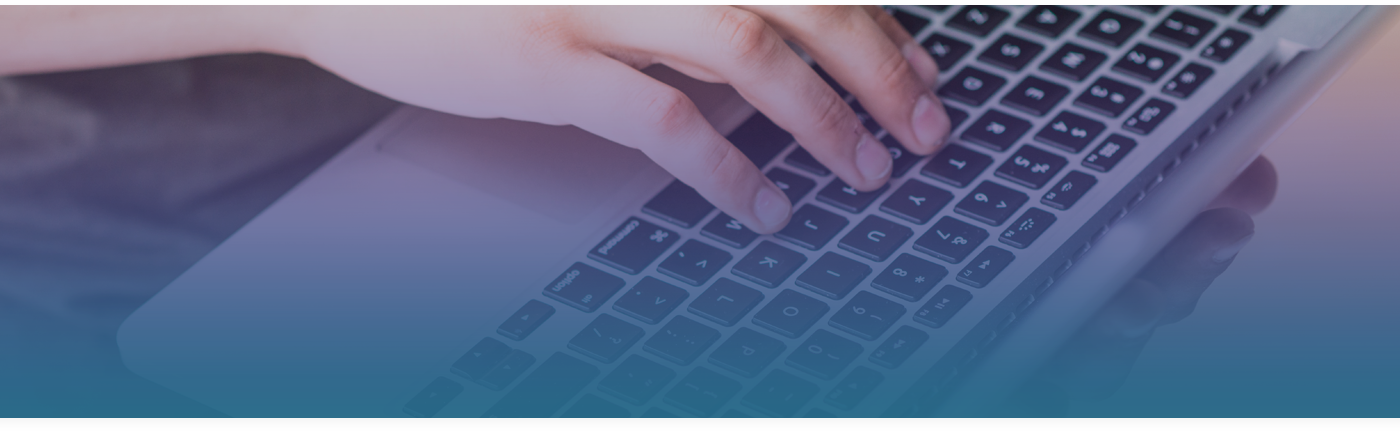
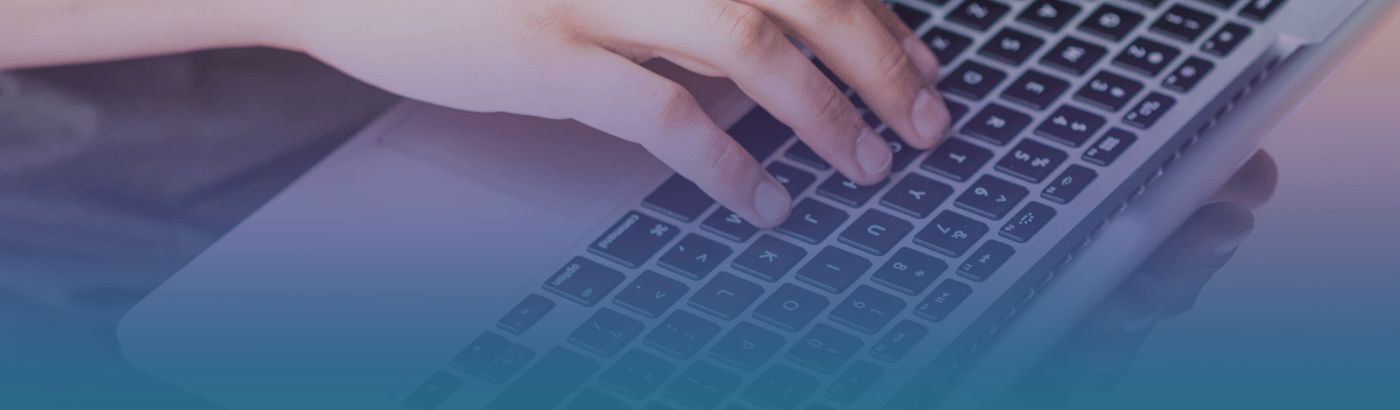
change assets img (optimize), add build task

diff --git a/gulpfile.js b/gulpfile.js
@@ -93,3 +93,27 @@ gulp.task('clearcache', function () {
 });
 
 gulp.task('default', ['watch']);
+
+// build
+
+gulp.task('js:build', function () {
+	return gulp.src('src/assets/js/scripts.min.js')
+		.pipe(gulp.dest('dist/assets/js'));
+});
+
+gulp.task('css:build', function () {
+	return gulp.src('src/assets/css/**/*.css')
+		.pipe(gulp.dest('dist/assets/css'));
+});
+
+gulp.task('img:build', function () {
+	return gulp.src('src/assets/img/**/*')
+		.pipe(gulp.dest('dist/assets/img'));
+});
+
+gulp.task('html:build', function () {
+	return gulp.src('src/*.html')
+		.pipe(gulp.dest('dist/html'));
+});
+
+gulp.task('build', ['removedist', 'clearcache',	'js:build', 'css:build', 'img:build', 'html:build']);
